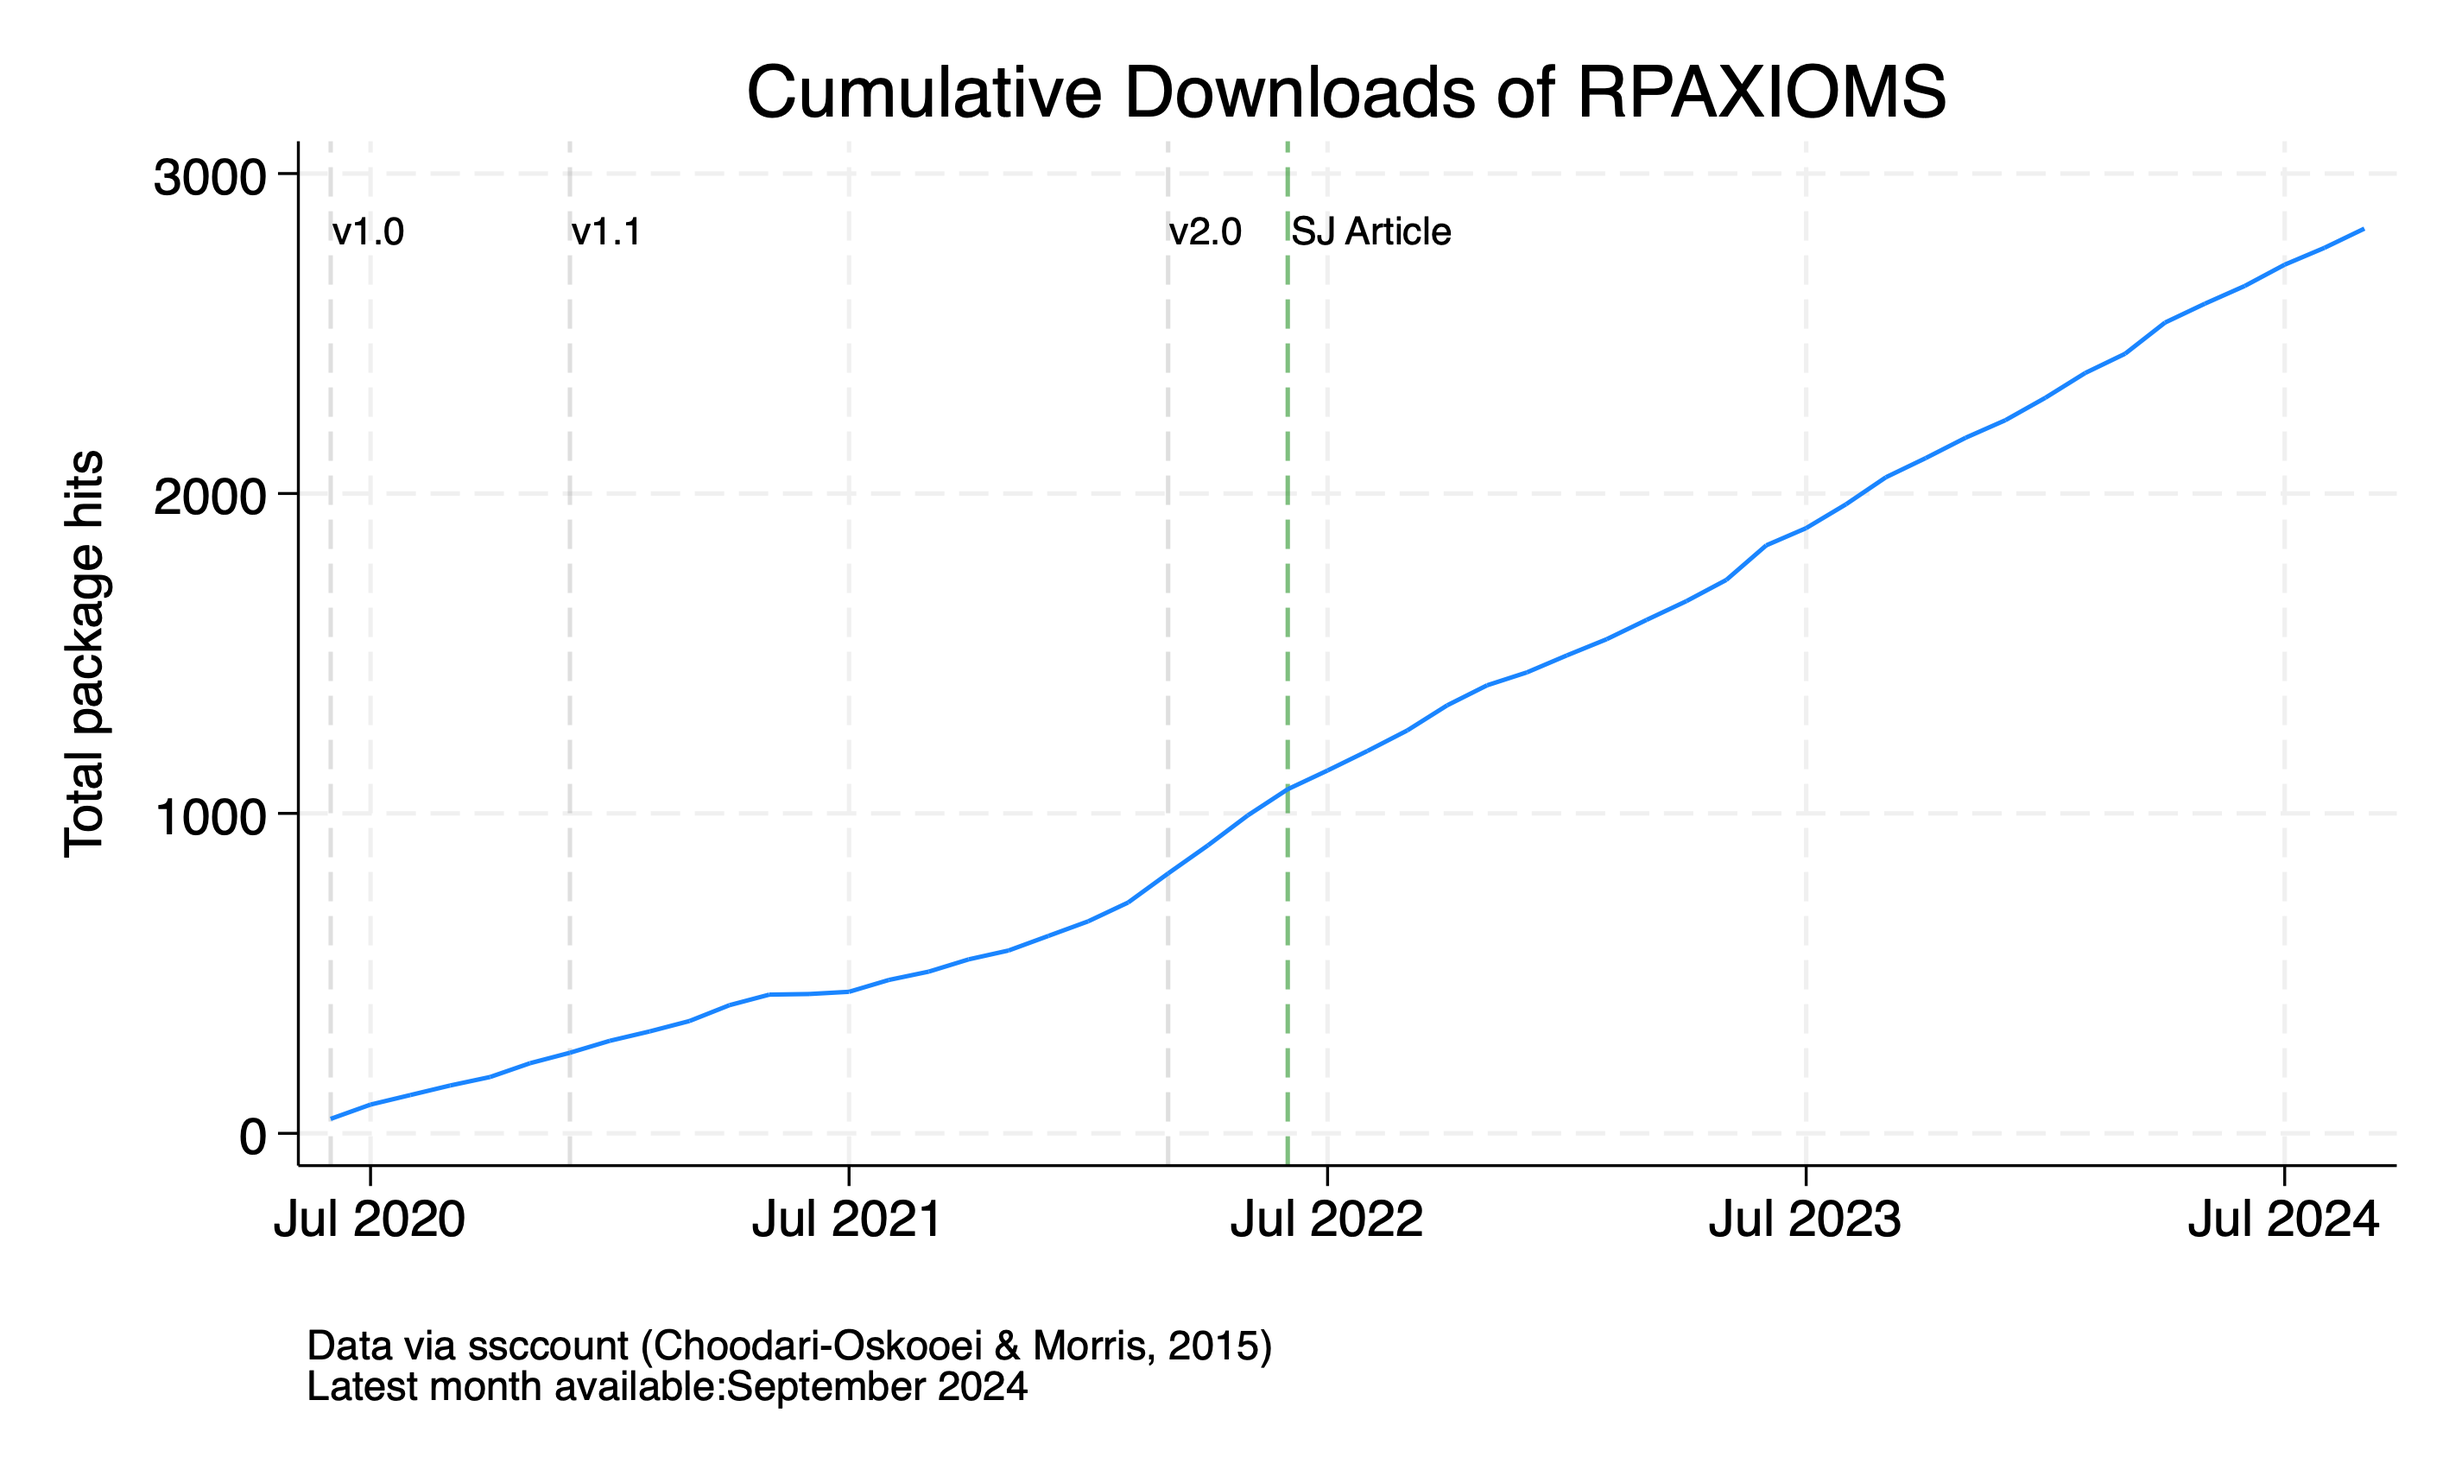
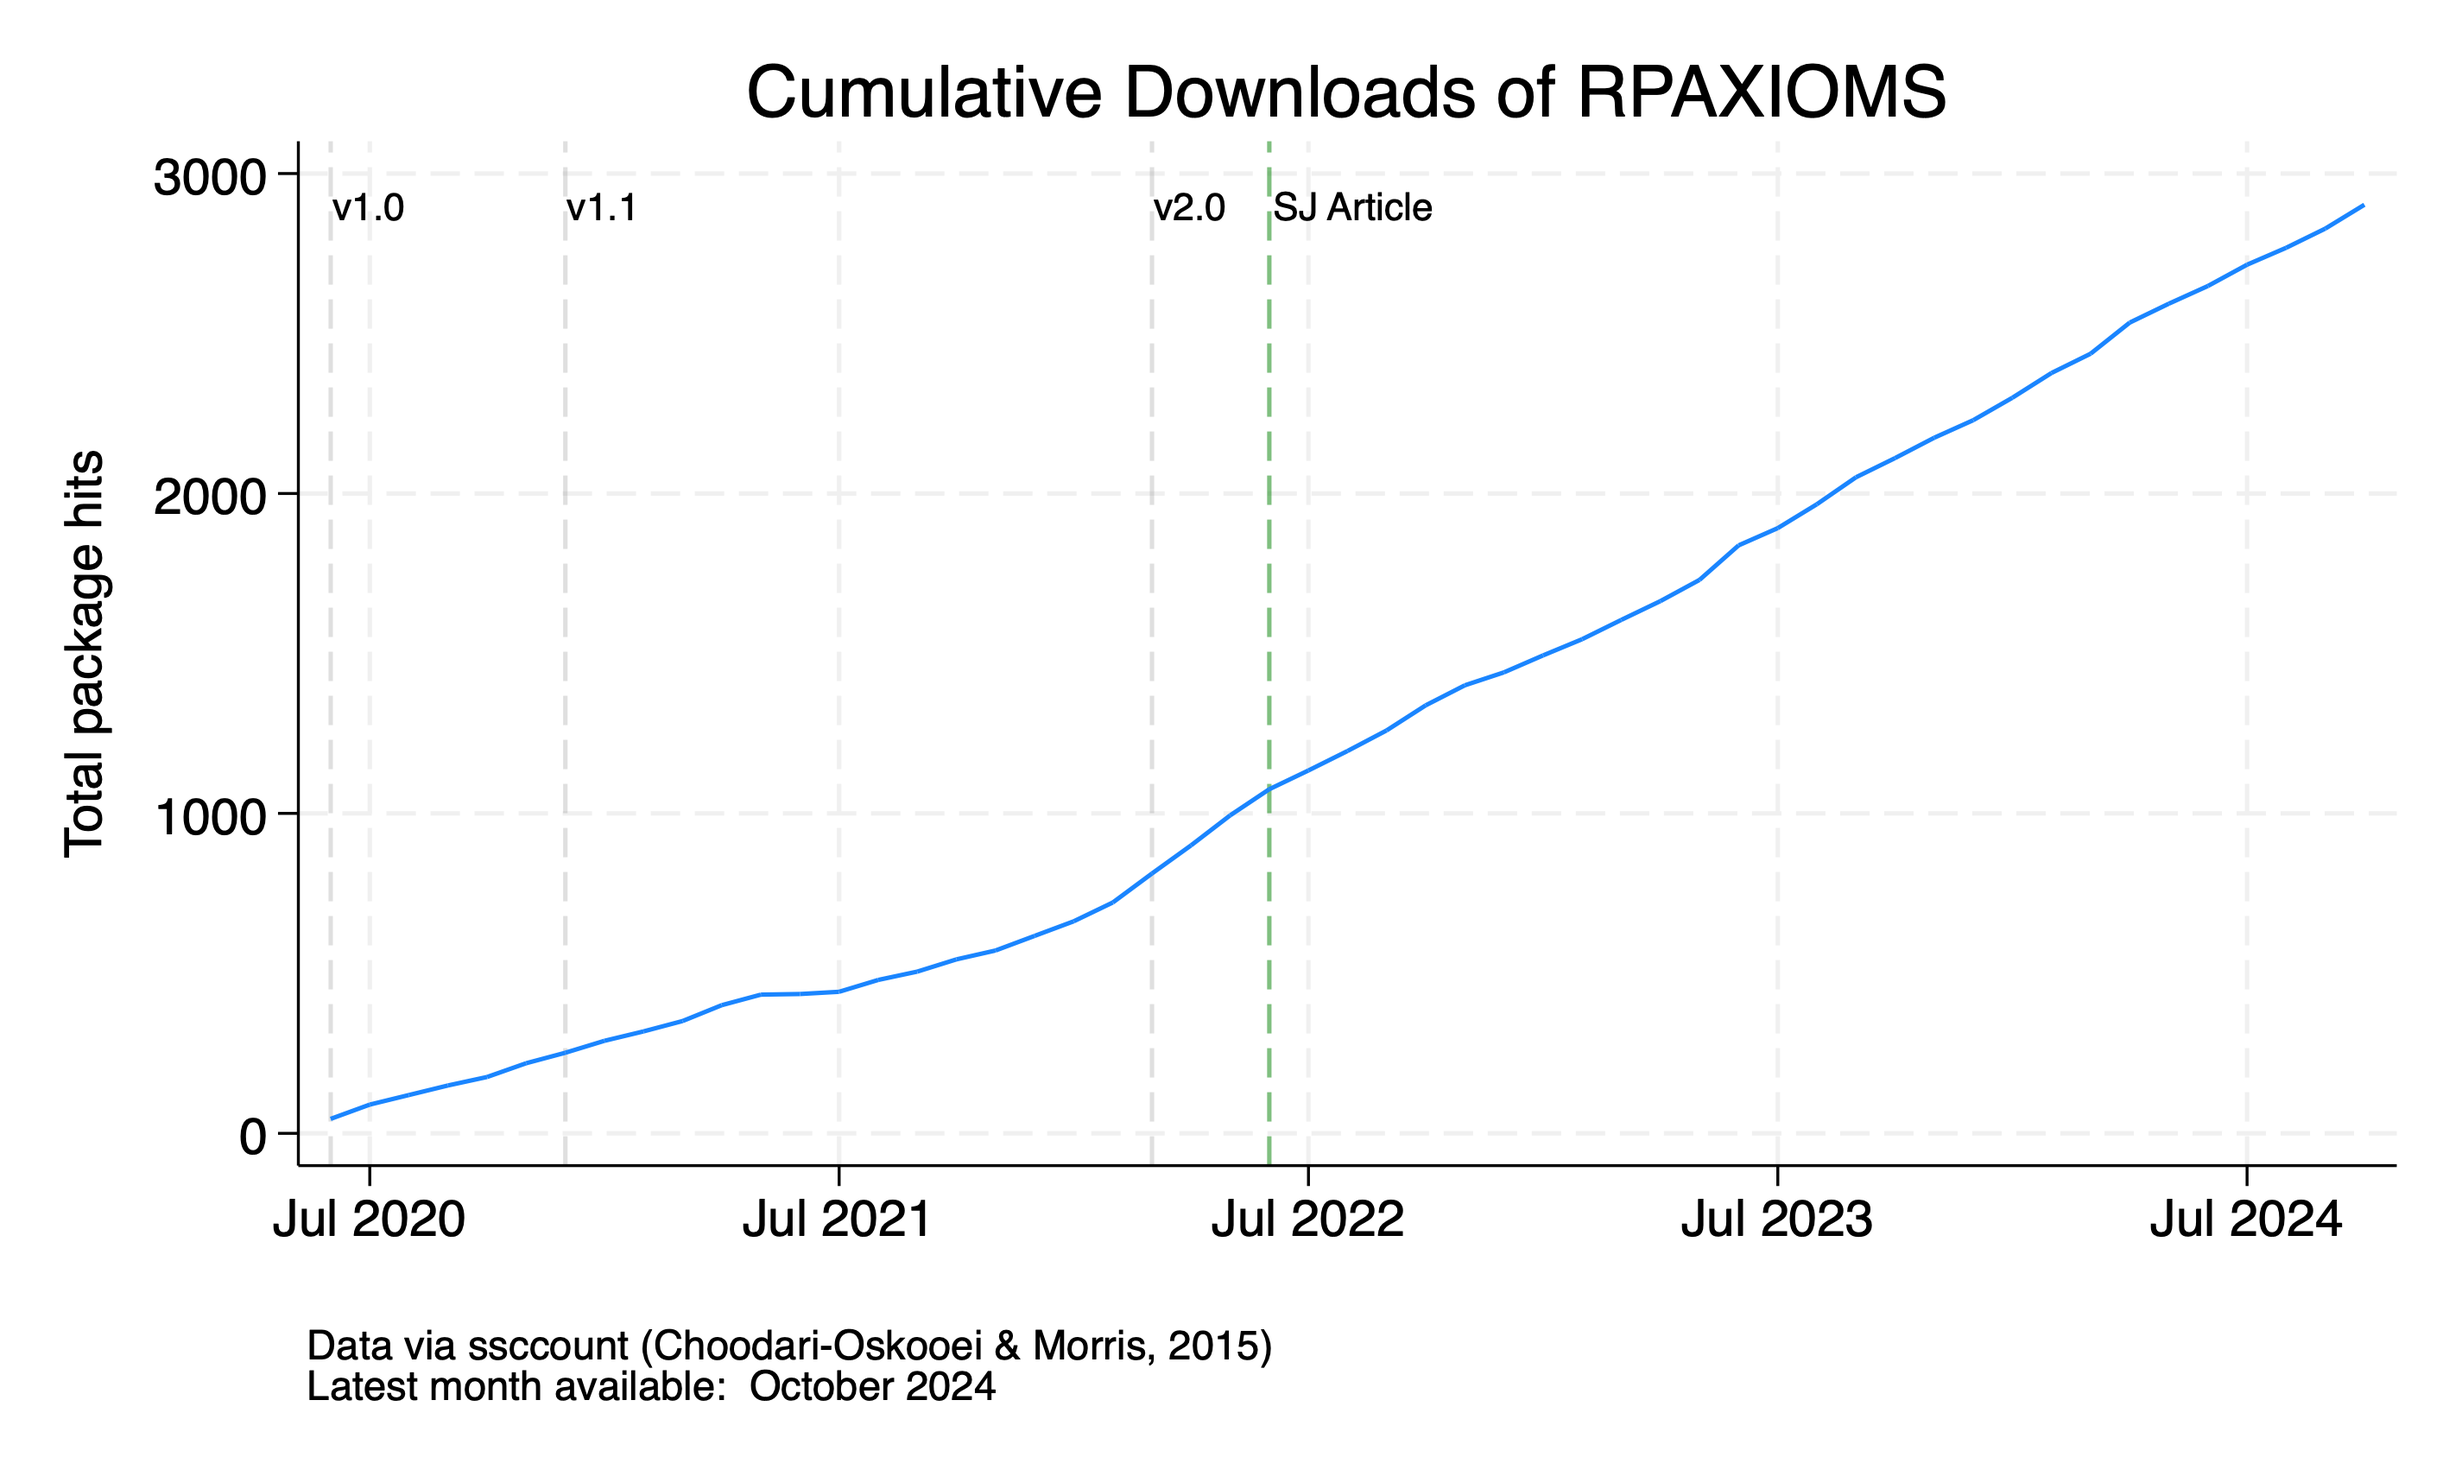
update npkghit to october 2024

diff --git a/_posts/2022-07-01-rpaxioms.md b/_posts/2022-07-01-rpaxioms.md
@@ -17,7 +17,7 @@ household-level aggregate consumption data.
 ## Citation
 Demetry, M., Hjertstrand, P. and Polisson, M., 2022. Testing axioms of revealed preference in Stata. <i>The Stata Journal</i>, 22(2), pp.319-343.
 
-## Total downloads: 2,828
+## Total downloads: 2,902
 <img src="/assets/img/rpaxioms_cumulative_hits.png" alt="number of downloads" width="100%"/>
 
 <details>

diff --git a/_posts/2022-12-01-hmindex.md b/_posts/2022-12-01-hmindex.md
@@ -13,7 +13,7 @@ note introduces the _Stata_ command __hmindex__, which calculates the Houtman-Ma
 prices and observed choices of a consumer. The command is illustrated with an empirical application.
 
 
-## Total downloads: 1,514
+## Total downloads: 1,566
 <img src="/assets/img/hmindex_cumulative_hits.png" alt="number of downloads" width="100%"/>
 
 
